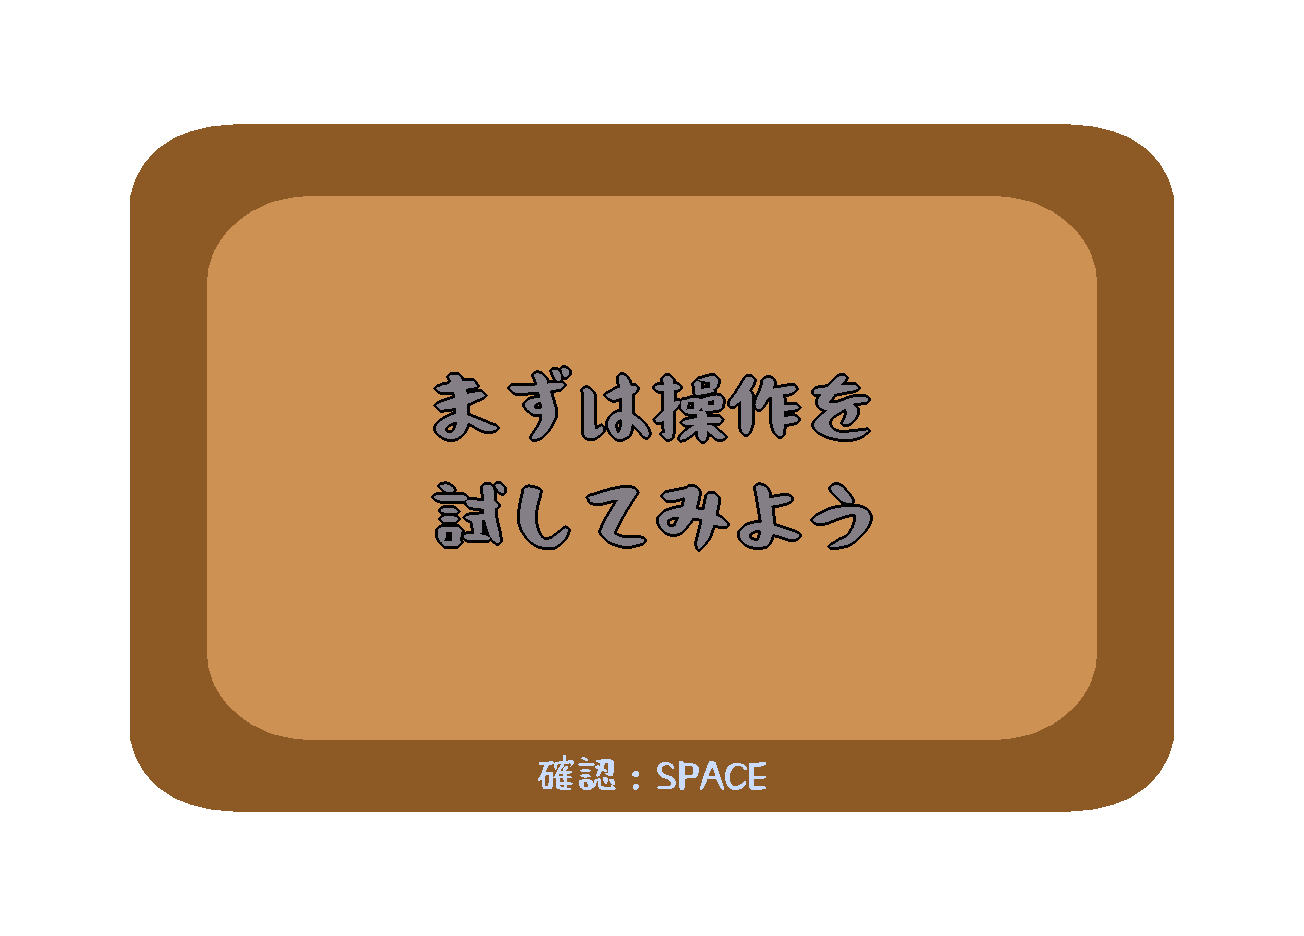
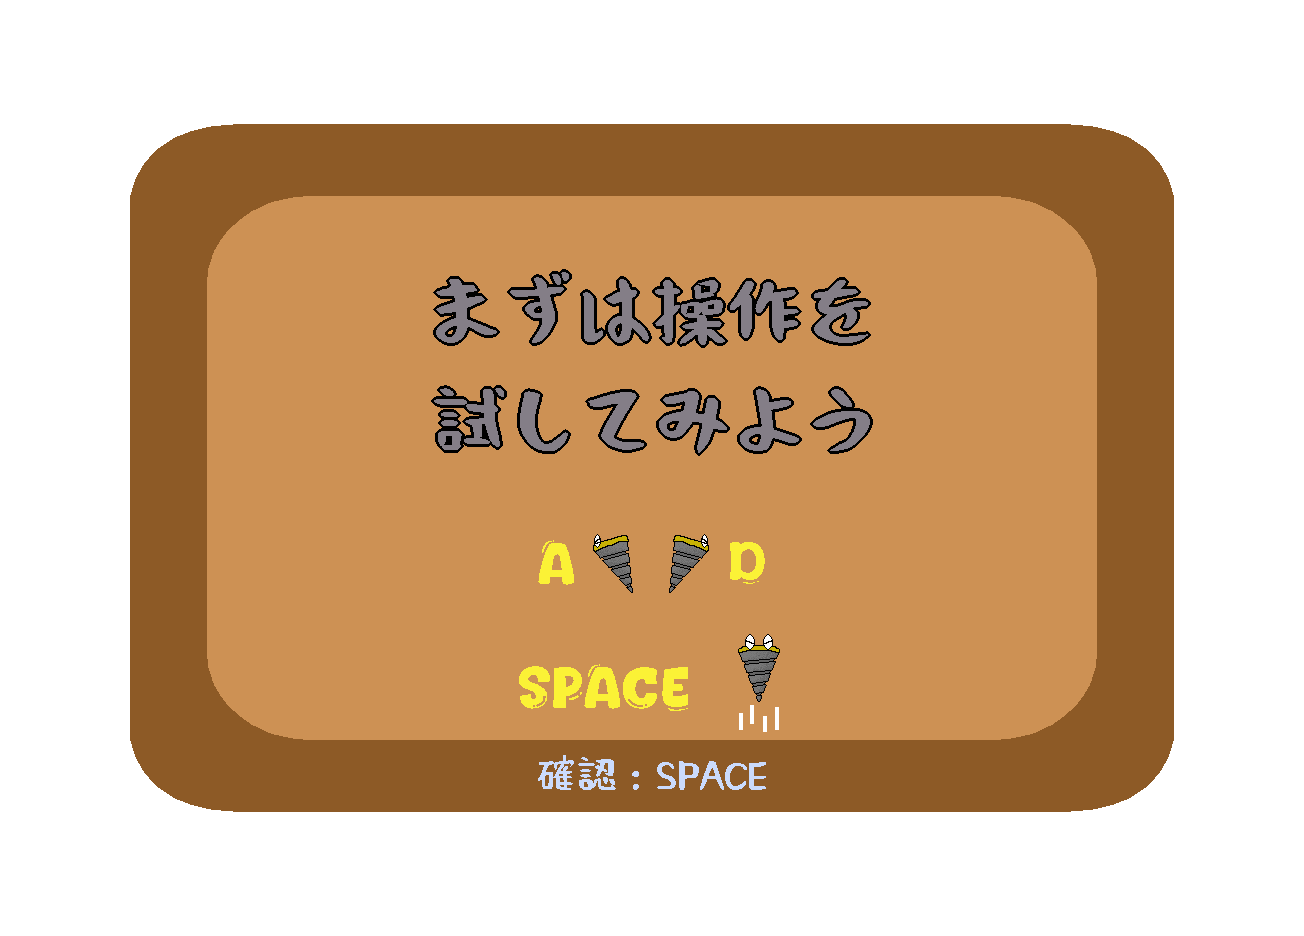
さヴぇ

Changed region(s): [[0.3374, 0.2788, 0.6748, 0.6197], [0.3988, 0.6816, 0.6135, 0.7746]]

diff --git a/BasicTutorialScene.cpp b/BasicTutorialScene.cpp
@@ -30,11 +30,12 @@ void BasicTutorialScene::Initialize()
 	// Text
 	isPage[0] = true;
 	A = 0;
-	color = (R << 24) | (G << 16) | (B << 8) | A;	// "|" == or (for bit calculation)
+	color = (R << 24) | (G << 16) | (B << 8) | A;	// "|" == "or" (for bit calculation)
 	// Background
 	background_ = new Background;
 	background_->Initialize(backgroundHandle_);
 	UI = new UserInterface;
+	UI->Initialize();
 	// Spike
 	spike_.resize(kSpikeNum);
 	for (int i = 0; i < kSpikeNum; i++)
@@ -45,7 +46,7 @@ void BasicTutorialScene::Initialize()
 	}
 	// Player
 	player_ = new Player;
-	player_->Initialize({ 640.f,500.f - player_->GetSize().height }, scrollSpeed);
+	player_->Initialize({ 792.f,500.f - player_->GetSize().height }, scrollSpeed);
 
 	// Normal Block
 	blocks_.resize(kBlockNum);
@@ -121,6 +122,7 @@ void BasicTutorialScene::Update()
 		break;
 
 	case Phase::kTextExplanation:
+#pragma region Tutorial Text
 		if (isPage[0]) {
 			if (A < 255 && !isStartDecreaseAlpha) {
 				A += 6;
@@ -153,9 +155,11 @@ void BasicTutorialScene::Update()
 					A = 0;
 					isStartDecreaseAlpha = false;
 					isPage[1] = false;
+					isFinishedMovementTutor = true;
 				}
 			}
 		}
+#pragma endregion
 
 		color = (R << 24) | (G << 16) | (B << 8) | A;
 		break;
@@ -239,7 +243,6 @@ void BasicTutorialScene::Draw()
 				Novice::DrawSprite(int(kBlockSize * 3), int(kBlockSize * 2), pageHandle[i], 1.f, 1.f, 0, color);
 			}
 		}
-
 		break;
 
 	case Phase::kPlay:
@@ -256,7 +259,7 @@ void BasicTutorialScene::ChangePhase()
 		break;
 
 	case Phase::kTextExplanation:
-		if (isFinishedTutor) { phase_ = Phase::kPlay; }
+		if (isFinishedMovementTutor) { phase_ = Phase::kPlay; }
 		break;
 
 	case Phase::kPlay:

diff --git a/main.cpp b/main.cpp
@@ -8,6 +8,8 @@ int WINAPI WinMain(HINSTANCE, HINSTANCE, LPSTR, int) {
 
 	// Initialize library
 	Novice::Initialize(kWindowTitle, 1920, 1080);
+	// Play Screen : width:1296, height:1056 (two side have wall(48))
+	// Left blank: 48*3	  Top blank: 48*2
 
 	std::unique_ptr<GameManager>gameManager = std::make_unique<GameManager>();
 

diff --git a/BasicTutorialScene.h b/BasicTutorialScene.h
@@ -44,7 +44,7 @@ private:
 	static inline const uint8_t kPageNum = 2;
 	bool isPage[kPageNum];
 	bool isStartDecreaseAlpha = false;
-	bool isFinishedTutor = false;
+	bool isFinishedMovementTutor = false;
 	// COLOR
 	uint16_t alphaTimer = 0;
 	uint32_t R = 255;

diff --git a/UserInterface.cpp b/UserInterface.cpp
@@ -7,8 +7,6 @@ void UserInterface::Initialize()
 
 void UserInterface::Update()
 {
-	
-	
 	if (isDrilling_) 
 	{
 		length_ -= drillEnergyReductionSpeed;
